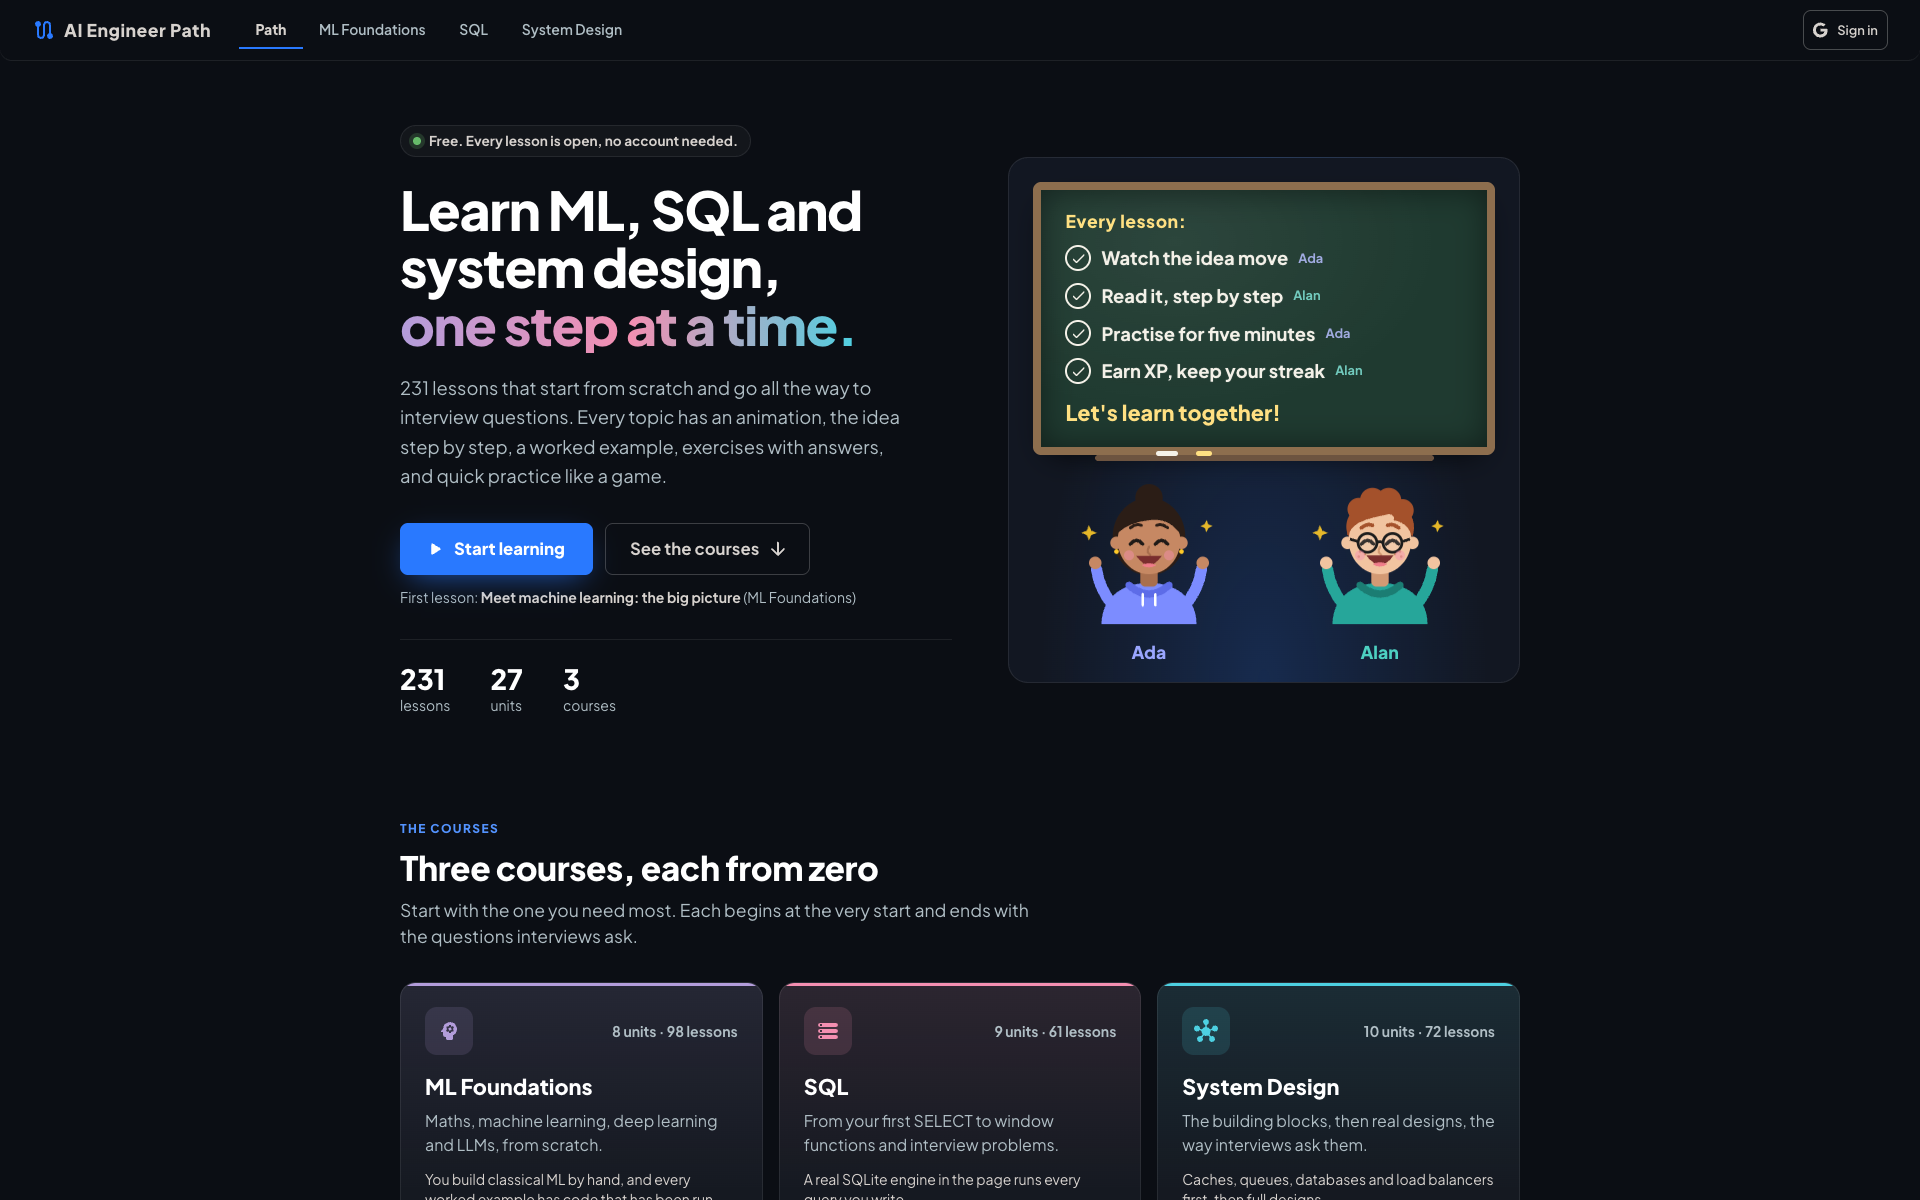
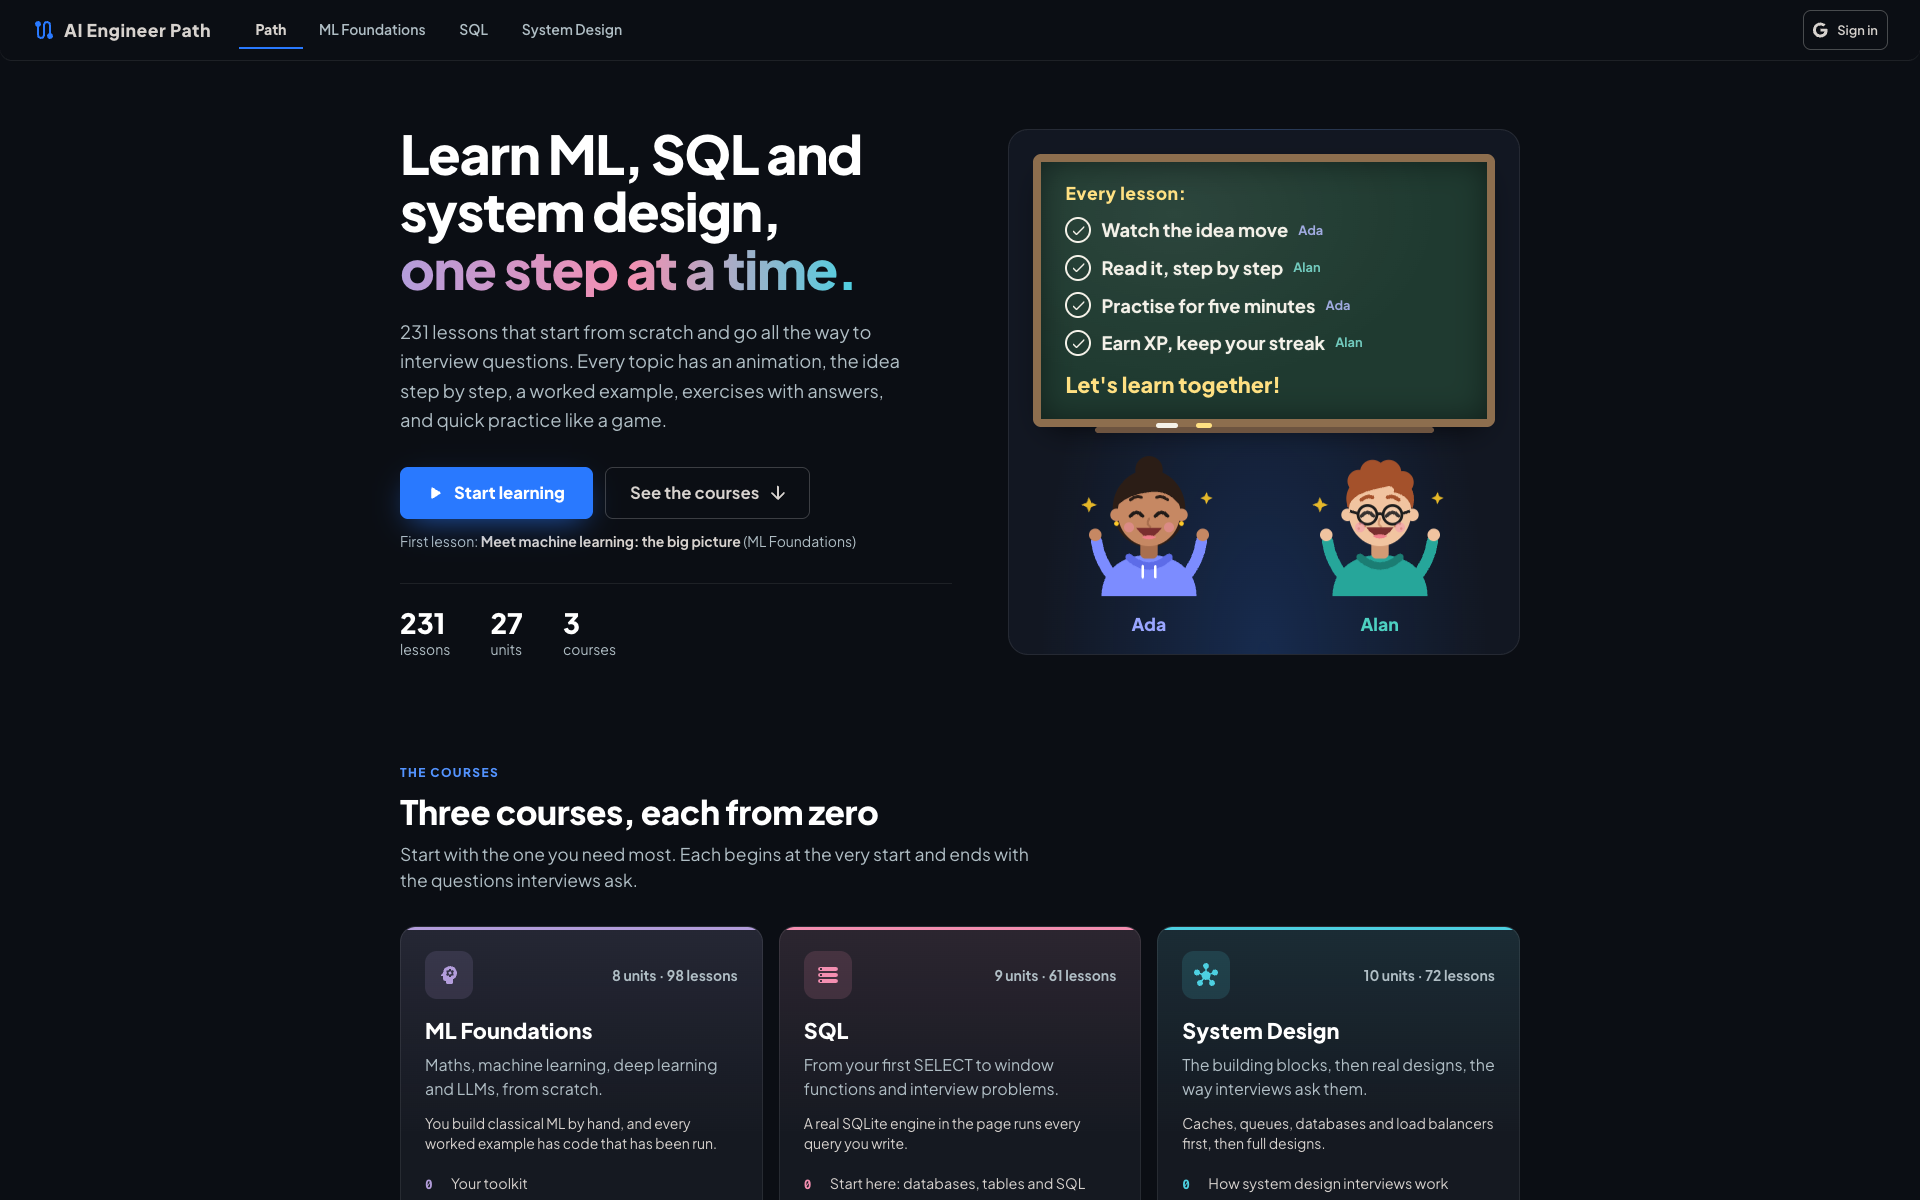
Remove the free tag, smaller coffee button, README update

Changed region(s): [[0.1875, 0.6167, 0.8125, 1.0], [0.1875, 0.0925, 0.4688, 0.5858], [0.5312, 0.1233, 0.7812, 0.5858]]

diff --git a/src/index.css b/src/index.css
@@ -155,21 +155,6 @@ button:focus-visible {
 @media (min-width: 900px) {
   .seo-hero { grid-template-columns: minmax(0, 1.08fr) minmax(0, 1fr); gap: 56px; padding-top: 32px; }
 }
-.seo-page.seo-home .seo-chip {
-  display: inline-flex;
-  align-items: center;
-  gap: 8px;
-  margin: 0 0 24px;
-  padding: 4.8px 12px;
-  border-radius: 999px;
-  border: 1px solid rgba(255, 255, 255, 0.08);
-  background: rgba(255, 255, 255, 0.03);
-  font-size: 0.85rem;
-  font-weight: 700;
-  line-height: 1.5;
-  color: #d7d2ce;
-}
-.seo-dot { width: 8px; height: 8px; flex-shrink: 0; border-radius: 50%; background: #66bb6a; box-shadow: 0 0 0 4px #66bb6a33; }
 .seo-page.seo-home h1 { margin: 0; font-weight: 800; color: #fff; font-size: 2.3rem; line-height: 1.07; letter-spacing: -0.025em; }
 .seo-grad { display: inline-block; -webkit-background-clip: text; background-clip: text; -webkit-text-fill-color: transparent; color: transparent; }
 .seo-page.seo-home .seo-lead { margin: 20px 0 0; max-width: 520px; color: #b0bec5; font-size: 1.05rem; line-height: 1.6; }

diff --git a/src/App.tsx b/src/App.tsx
@@ -86,18 +86,18 @@ const App = () => (
                     sx={{
                         display: 'inline-flex',
                         alignItems: 'center',
-                        gap: 0.75,
-                        px: 1.5,
-                        py: 0.5,
+                        gap: 0.5,
+                        px: 1,
+                        py: 0.25,
                         borderRadius: 999,
                         bgcolor: '#ffdd00',
                         color: '#1a1a1a',
-                        fontSize: '0.85rem',
+                        fontSize: '0.75rem',
                         fontWeight: 700,
                         '&:hover': { bgcolor: '#ffe733', color: '#000' },
                     }}
                 >
-                    <CoffeeRoundedIcon sx={{ fontSize: 18 }} />
+                    <CoffeeRoundedIcon sx={{ fontSize: 14 }} />
                     Buy me a coffee
                 </Link>
             </Box>

diff --git a/src/components/app/Landing.tsx b/src/components/app/Landing.tsx
@@ -294,15 +294,6 @@ export const Hero = ({ course, onSeeCourses }: { course: CourseInfo; onSeeCourse
             }}
         >
             <Box>
-                <Stack
-                    direction="row"
-                    spacing={1}
-                    alignItems="center"
-                    sx={{ display: 'inline-flex', px: 1.5, py: 0.6, mb: 3, borderRadius: 999, border: `1px solid ${LINE}`, bgcolor: 'rgba(255,255,255,0.03)' }}
-                >
-                    <Box sx={{ width: 8, height: 8, borderRadius: '50%', bgcolor: MASTERED, boxShadow: `0 0 0 4px ${MASTERED}33`, flexShrink: 0 }} />
-                    <Typography sx={{ fontSize: '0.85rem', fontWeight: 700 }}>{HERO.chip}</Typography>
-                </Stack>
                 <Typography
                     id="home-title"
                     component="h1"

diff --git a/src/game/__tests__/sitePages.test.ts b/src/game/__tests__/sitePages.test.ts
@@ -104,7 +104,6 @@ const homeBody = () => {
     const course = COURSES[0];
     const first = course.units[0].topics[0];
     const hero = `<section class="seo-hero"><div class="seo-hero-text">`
-        + `<p class="seo-chip"><span class="seo-dot"></span>${esc(HERO.chip)}</p>`
         + `<h1>${esc(HERO.title)} <span class="seo-grad" style="background-image:${HERO_GRADIENT}">${esc(HERO.titleEnd)}</span></h1>`
         + `<p class="seo-lead">${esc(HERO.lead)}</p>`
         + `<p class="seo-ctas"><a class="seo-btn seo-btn-main" href="${esc(topicPath(course, first.id))}">${icon(PLAY_ICON)}${esc(HERO.start)}</a>`

diff --git a/src/game/homeCopy.ts b/src/game/homeCopy.ts
@@ -8,7 +8,6 @@ export const HOME_LESSONS = COURSES.reduce((n, course) => n + course.units.reduc
 export const HOME_UNITS = COURSES.reduce((n, course) => n + course.units.length, 0);
 
 export const HERO = {
-    chip: 'Free. Every lesson is open, no account needed.',
     title: 'Learn ML, SQL and system design,',
     titleEnd: 'one step at a time.',
     lead: `${HOME_LESSONS} lessons that start from scratch and go all the way to interview questions. Every topic has an animation, the idea step by step, a worked example, exercises with answers, and quick practice like a game.`,

diff --git a/README.md b/README.md
@@ -67,7 +67,7 @@ Every lesson teaches one idea all the way through:
   <img src="docs/images/practice-summary.png" alt="Lesson complete: XP earned, first-try score and hearts left" width="24%">
 </p>
 
-Tap any lesson on the path and press **Practise**. The lesson's coach teaches the idea and its new words first, then asks quick questions made from the lesson itself, reading each one aloud:
+Tap any lesson on the path and press **Practise**. After a quick true-or-false guess, the lesson's coach teaches the idea and its new words, then asks quick questions made from the lesson itself, reading each one aloud:
 
 - **Match the pairs:** each word to what it means.
 - **Fill the gap:** type the missing word, checked letter by letter, or choose it from four words if typing is hard.
